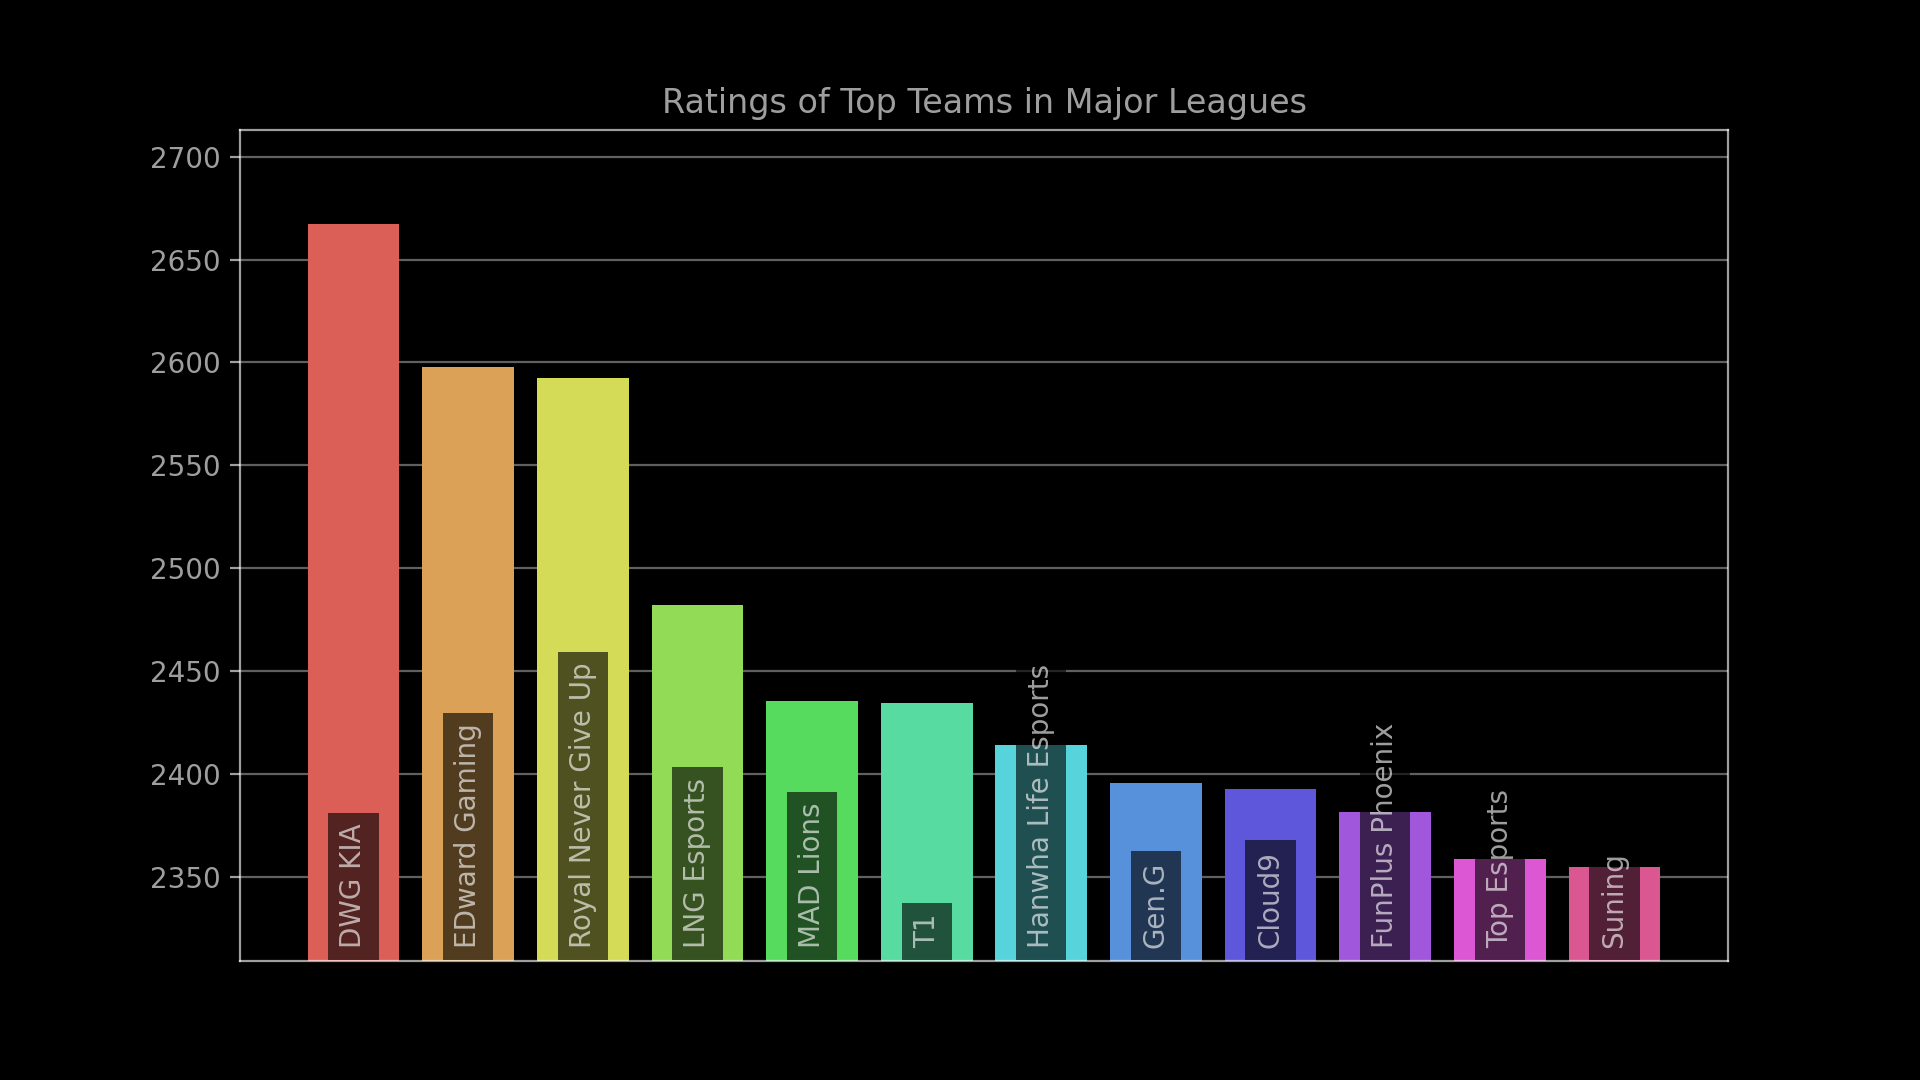
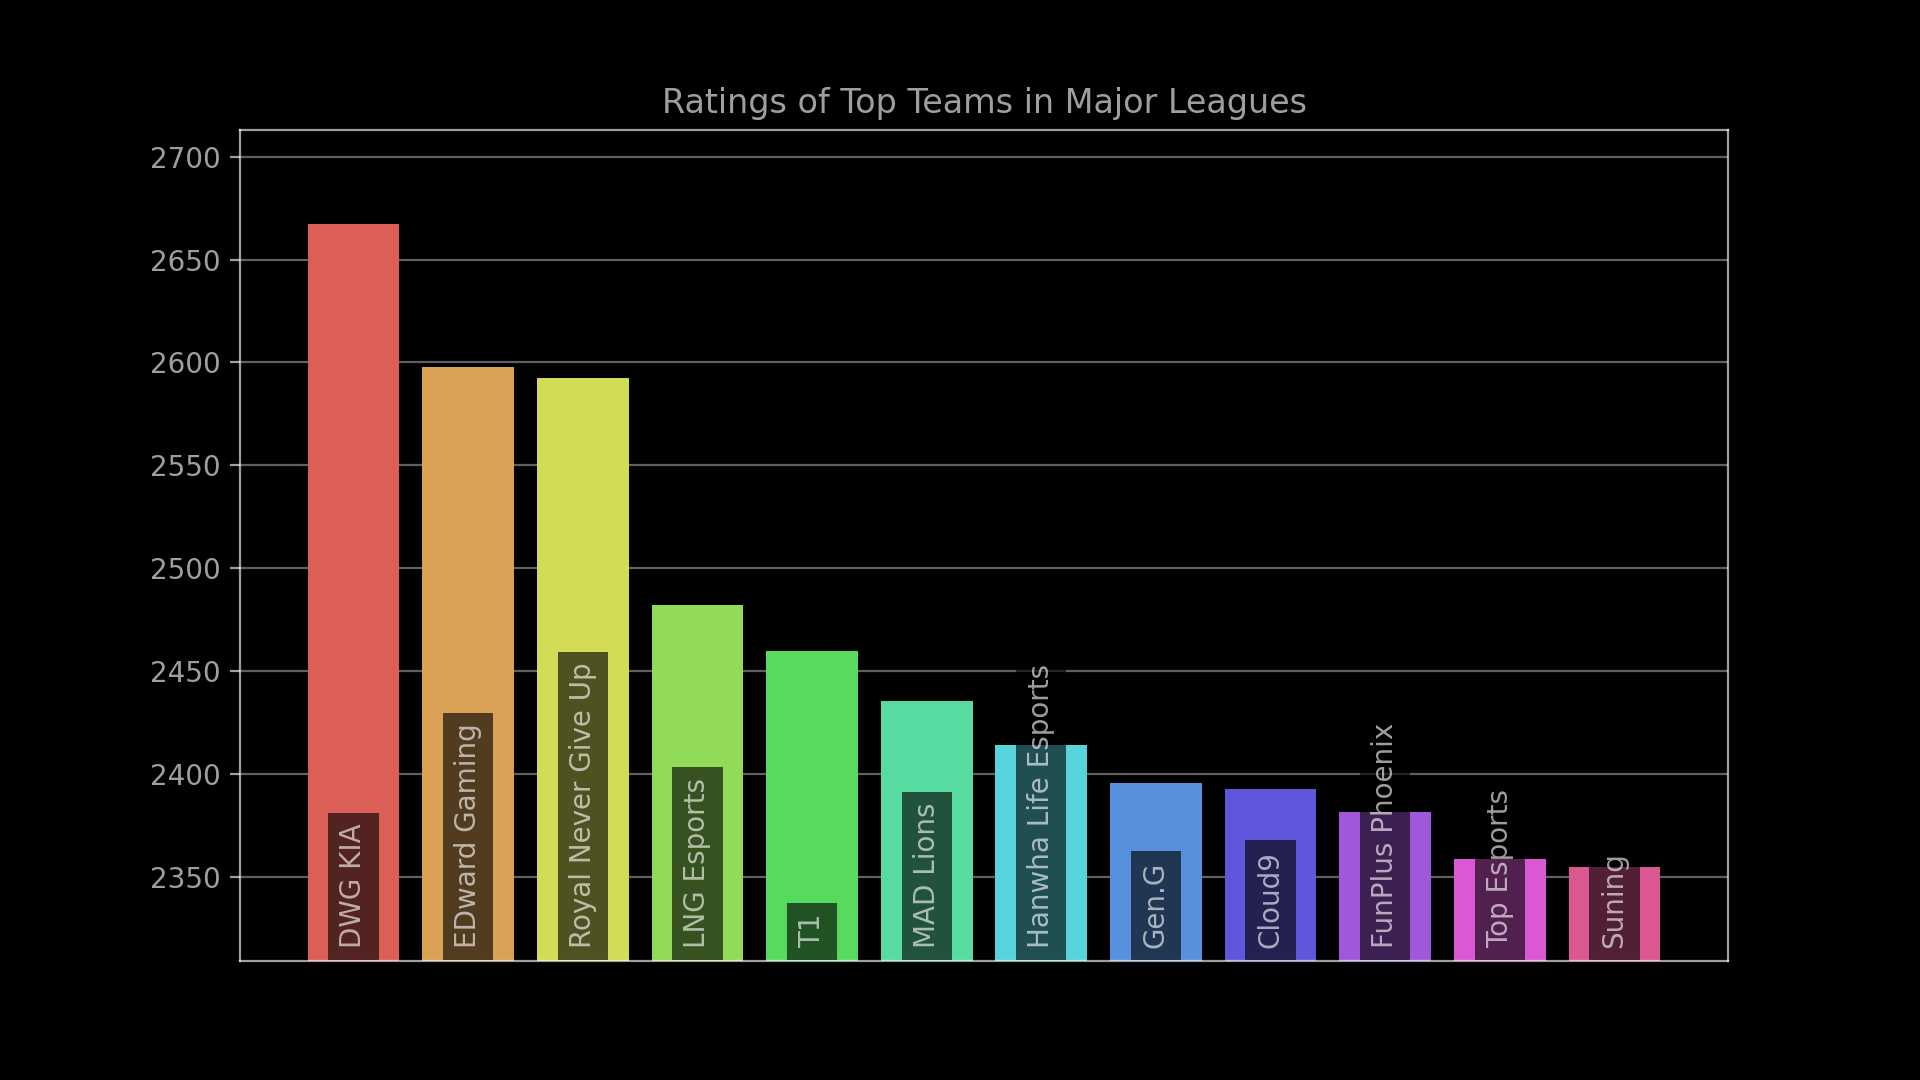
Update rating charts for 2021-10-16 13:00:00.

Changed region(s): [[0.4688, 0.7333, 0.5, 0.8861], [0.4062, 0.7333, 0.4375, 0.8861], [0.375, 0.5806, 0.4688, 0.6722]]

diff --git a/index.html b/index.html
@@ -81,24 +81,24 @@
             <tr><td style="text-align: right">3</td><td class="name">Royal Never Give Up</td><td class="league" style="text-align: center">LPL</td><td class="rating" style="text-align: center">2592.6</td><td class="diff" style="text-align: center; white-space: nowrap"><span style="color: #4CAF50">&plus;66.9</span></td></tr>
             <tr><td style="text-align: right">4</td><td class="name">PSG Talon</td><td class="league" style="text-align: center">PCS</td><td class="rating" style="text-align: center">2521.6</td><td class="diff" style="text-align: center; white-space: nowrap"><span style="color: #4CAF50">&plus;44.6</span></td></tr>
             <tr><td style="text-align: right">5</td><td class="name">LNG Esports</td><td class="league" style="text-align: center">LPL</td><td class="rating" style="text-align: center">2482.3</td><td class="diff" style="text-align: center; white-space: nowrap"><span style="color: #4CAF50">&plus;31.4</span></td></tr>
-            <tr><td style="text-align: right">6</td><td class="name">MAD Lions</td><td class="league" style="text-align: center">LEC</td><td class="rating" style="text-align: center">2435.8</td><td class="diff" style="text-align: center; white-space: nowrap"><span style="color: #F44336">&minus;37.7</span></td></tr>
-            <tr><td style="text-align: right">7</td><td class="name">T1</td><td class="league" style="text-align: center">LCK</td><td class="rating" style="text-align: center">2434.7</td><td class="diff" style="text-align: center; white-space: nowrap"><span style="color: #4CAF50">&plus;21.2</span></td></tr>
-            <tr><td style="text-align: right">8</td><td class="name">Hanwha Life Esports</td><td class="league" style="text-align: center">LCK</td><td class="rating" style="text-align: center">2414.0</td><td class="diff" style="text-align: center; white-space: nowrap"><span style="color: #F44336">&minus;7.4</span></td></tr>
+            <tr><td style="text-align: right">6</td><td class="name">T1</td><td class="league" style="text-align: center">LCK</td><td class="rating" style="text-align: center">2460.0</td><td class="diff" style="text-align: center; white-space: nowrap"><span style="color: #4CAF50">&plus;46.5</span></td></tr>
+            <tr><td style="text-align: right">7</td><td class="name">MAD Lions</td><td class="league" style="text-align: center">LEC</td><td class="rating" style="text-align: center">2435.8</td><td class="diff" style="text-align: center; white-space: nowrap"><span style="color: #F44336">&minus;37.7</span></td></tr>
+            <tr><td style="text-align: right">8</td><td class="name">Hanwha Life Esports</td><td class="league" style="text-align: center">LCK</td><td class="rating" style="text-align: center">2414.0</td><td class="diff" style="text-align: center; white-space: nowrap"><span style="color: #F44336">&minus;27.0</span></td></tr>
             <tr><td style="text-align: right">9</td><td class="name">Gen.G</td><td class="league" style="text-align: center">LCK</td><td class="rating" style="text-align: center">2395.6</td><td class="diff" style="text-align: center; white-space: nowrap"><span style="color: #4CAF50">&plus;31.1</span></td></tr>
             <tr><td style="text-align: right">10</td><td class="name">Cloud9</td><td class="league" style="text-align: center">LCS</td><td class="rating" style="text-align: center">2392.9</td><td class="diff" style="text-align: center; white-space: nowrap"><span style="color: #4CAF50">&plus;53.5</span></td></tr>
             <tr><td style="text-align: right">11</td><td class="name">FunPlus Phoenix</td><td class="league" style="text-align: center">LPL</td><td class="rating" style="text-align: center">2381.7</td><td class="diff" style="text-align: center; white-space: nowrap"><span style="color: #F44336">&minus;130.8</span></td></tr>
             <tr><td style="text-align: right">12</td><td class="name">Top Esports</td><td class="league" style="text-align: center">LPL</td><td class="rating" style="text-align: center">2358.8</td><td class="diff" style="text-align: center; white-space: nowrap"></td></tr>
             <tr><td style="text-align: right">13</td><td class="name">Suning</td><td class="league" style="text-align: center">LPL</td><td class="rating" style="text-align: center">2354.8</td><td class="diff" style="text-align: center; white-space: nowrap"></td></tr>
-            <tr><td style="text-align: right">14</td><td class="name">100 Thieves</td><td class="league" style="text-align: center">LCS</td><td class="rating" style="text-align: center">2343.8</td><td class="diff" style="text-align: center; white-space: nowrap"><span style="color: #F44336">&minus;9.6</span></td></tr>
-            <tr><td style="text-align: right">15</td><td class="name">Team WE</td><td class="league" style="text-align: center">LPL</td><td class="rating" style="text-align: center">2340.1</td><td class="diff" style="text-align: center; white-space: nowrap"></td></tr>
-            <tr><td style="text-align: right">16</td><td class="name">Rogue </td><td class="league" style="text-align: center">LEC</td><td class="rating" style="text-align: center">2330.7</td><td class="diff" style="text-align: center; white-space: nowrap"><span style="color: #4CAF50">&plus;6.5</span></td></tr>
-            <tr><td style="text-align: right">17</td><td class="name">Bilibili Gaming</td><td class="league" style="text-align: center">LPL</td><td class="rating" style="text-align: center">2318.9</td><td class="diff" style="text-align: center; white-space: nowrap"></td></tr>
+            <tr><td style="text-align: right">14</td><td class="name">Team WE</td><td class="league" style="text-align: center">LPL</td><td class="rating" style="text-align: center">2340.1</td><td class="diff" style="text-align: center; white-space: nowrap"></td></tr>
+            <tr><td style="text-align: right">15</td><td class="name">Rogue </td><td class="league" style="text-align: center">LEC</td><td class="rating" style="text-align: center">2330.7</td><td class="diff" style="text-align: center; white-space: nowrap"><span style="color: #4CAF50">&plus;6.5</span></td></tr>
+            <tr><td style="text-align: right">16</td><td class="name">Bilibili Gaming</td><td class="league" style="text-align: center">LPL</td><td class="rating" style="text-align: center">2318.9</td><td class="diff" style="text-align: center; white-space: nowrap"></td></tr>
+            <tr><td style="text-align: right">17</td><td class="name">100 Thieves</td><td class="league" style="text-align: center">LCS</td><td class="rating" style="text-align: center">2318.3</td><td class="diff" style="text-align: center; white-space: nowrap"><span style="color: #F44336">&minus;35.0</span></td></tr>
             <tr><td style="text-align: right">18</td><td class="name">G2 Esports</td><td class="league" style="text-align: center">LEC</td><td class="rating" style="text-align: center">2313.3</td><td class="diff" style="text-align: center; white-space: nowrap"></td></tr>
             <tr><td style="text-align: right">19</td><td class="name">Rare Atom</td><td class="league" style="text-align: center">LPL</td><td class="rating" style="text-align: center">2313.0</td><td class="diff" style="text-align: center; white-space: nowrap"></td></tr>
             <tr><td style="text-align: right">20</td><td class="name">Afreeca Freecs</td><td class="league" style="text-align: center">LCK</td><td class="rating" style="text-align: center">2305.4</td><td class="diff" style="text-align: center; white-space: nowrap"></td></tr>
             <tr><td style="text-align: right">21</td><td class="name">Team Liquid</td><td class="league" style="text-align: center">LCS</td><td class="rating" style="text-align: center">2303.6</td><td class="diff" style="text-align: center; white-space: nowrap"><span style="color: #F44336">&minus;37.5</span></td></tr>
             <tr><td style="text-align: right">22</td><td class="name">CrowCrowd</td><td class="league" style="text-align: center">LCL</td><td class="rating" style="text-align: center">2303.4</td><td class="diff" style="text-align: center; white-space: nowrap"></td></tr>
-            <tr><td style="text-align: right">23</td><td class="name">Beyond Gaming</td><td class="league" style="text-align: center">PCS</td><td class="rating" style="text-align: center">2293.0</td><td class="diff" style="text-align: center; white-space: nowrap"><span style="color: #F44336">&minus;6.5</span></td></tr>
+            <tr><td style="text-align: right">23</td><td class="name">Beyond Gaming</td><td class="league" style="text-align: center">PCS</td><td class="rating" style="text-align: center">2293.0</td><td class="diff" style="text-align: center; white-space: nowrap"></td></tr>
             <tr><td style="text-align: right">24</td><td class="name">TSM</td><td class="league" style="text-align: center">LCS</td><td class="rating" style="text-align: center">2289.8</td><td class="diff" style="text-align: center; white-space: nowrap"></td></tr>
             <tr><td style="text-align: right">25</td><td class="name">Misfits Gaming</td><td class="league" style="text-align: center">LEC</td><td class="rating" style="text-align: center">2282.8</td><td class="diff" style="text-align: center; white-space: nowrap"></td></tr>
             <tr><td style="text-align: right">26</td><td class="name">Nongshim RedForce</td><td class="league" style="text-align: center">LCK</td><td class="rating" style="text-align: center">2280.4</td><td class="diff" style="text-align: center; white-space: nowrap"></td></tr>

diff --git a/assets/js/chart-config.js b/assets/js/chart-config.js
@@ -3,10 +3,10 @@ const MONTH_ABBREVIATIONS = ["Jan", "Feb", "Mar", "Apr", "May", "Jun", "Jul", "A
 const topChartConfig = {
     type: "bar",
     data: {
-        labels: ['DWG KIA', 'EDward Gaming', 'Royal Never Give Up', 'LNG Esports', 'MAD Lions', 'T1', 'Hanwha Life Esports', 'Gen.G', 'Cloud9', 'FunPlus Phoenix', 'Top Esports', 'Suning'],
+        labels: ['DWG KIA', 'EDward Gaming', 'Royal Never Give Up', 'LNG Esports', 'T1', 'MAD Lions', 'Hanwha Life Esports', 'Gen.G', 'Cloud9', 'FunPlus Phoenix', 'Top Esports', 'Suning'],
         datasets: [{
             backgroundColor: ['#dc5f57', '#dca157', '#d4dc57', '#91dc57', '#57dc5f', '#57dca1', '#57d4dc', '#5791dc', '#5f57dc', '#a157dc', '#dc57d4', '#dc5791'],
-            data: [2667.475752135994, 2597.989228839734, 2592.61501614084, 2482.2936444367374, 2435.7814562964663, 2434.7364895719516, 2413.970867686532, 2395.5787621921963, 2392.8668374178997, 2381.7010883286844, 2358.8275642289427, 2354.8123246379455],
+            data: [2667.475752135994, 2597.989228839734, 2592.61501614084, 2482.2936444367374, 2459.9636574311953, 2435.7814562964663, 2413.970867686532, 2395.5787621921963, 2392.8668374178997, 2381.7010883286844, 2358.8275642289427, 2354.8123246379455],
             label: "Rating Points"
         }]
     },

diff --git a/README.md b/README.md
@@ -49,18 +49,18 @@ confidence interval of the rating.
 | 2 | EDward Gaming | 2598.0 | 82.8 |
 | 3 | Royal Never Give Up | 2592.6 | 87.3 |
 | 4 | LNG Esports | 2482.3 | 71.7 |
-| 5 | MAD Lions | 2435.8 | 86.2 |
-| 6 | T1 | 2434.7 | 80.4 |
+| 5 | T1 | 2460.0 | 78.6 |
+| 6 | MAD Lions | 2435.8 | 86.2 |
 | 7 | Hanwha Life Esports | 2414.0 | 65.8 |
 | 8 | Gen.G | 2395.6 | 84.9 |
 | 9 | Cloud9 | 2392.9 | 60.3 |
 | 10 | FunPlus Phoenix | 2381.7 | 72.5 |
 | 11 | Top Esports | 2358.8 | 71.2 |
 | 12 | Suning | 2354.8 | 69.8 |
-| 13 | 100 Thieves | 2343.8 | 82.8 |
-| 14 | Team WE | 2340.1 | 61.8 |
-| 15 | Rogue (European Team) | 2330.7 | 73.6 |
-| 16 | Bilibili Gaming | 2318.9 | 73.6 |
+| 13 | Team WE | 2340.1 | 61.8 |
+| 14 | Rogue (European Team) | 2330.7 | 73.6 |
+| 15 | Bilibili Gaming | 2318.9 | 73.6 |
+| 16 | 100 Thieves | 2318.3 | 80.6 |
 | 17 | G2 Esports | 2313.3 | 79.1 |
 | 18 | Rare Atom | 2313.0 | 77.3 |
 | 19 | Afreeca Freecs | 2305.4 | 67.7 |
